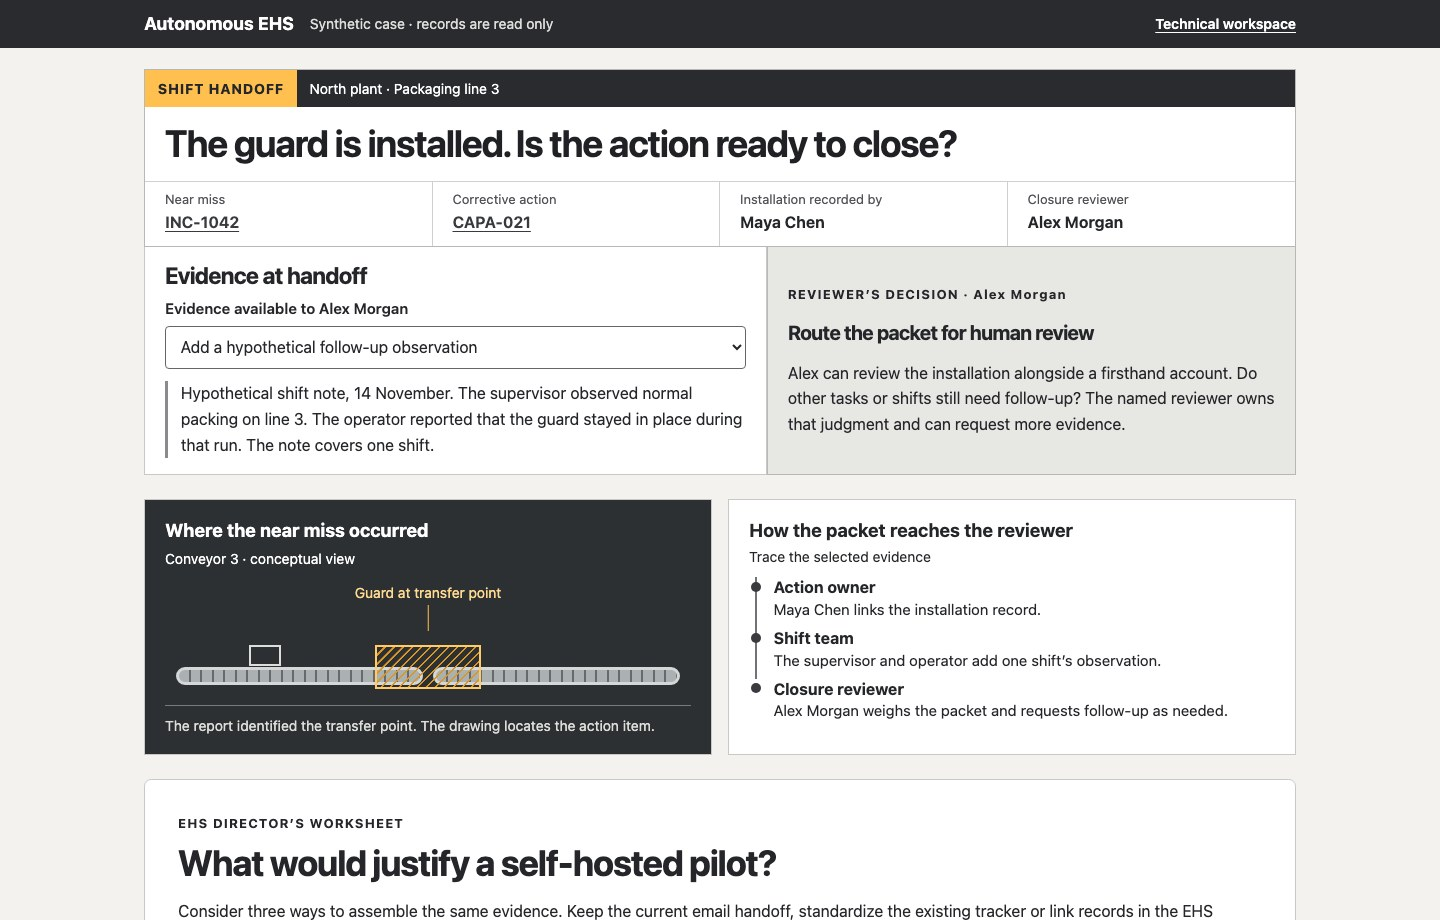
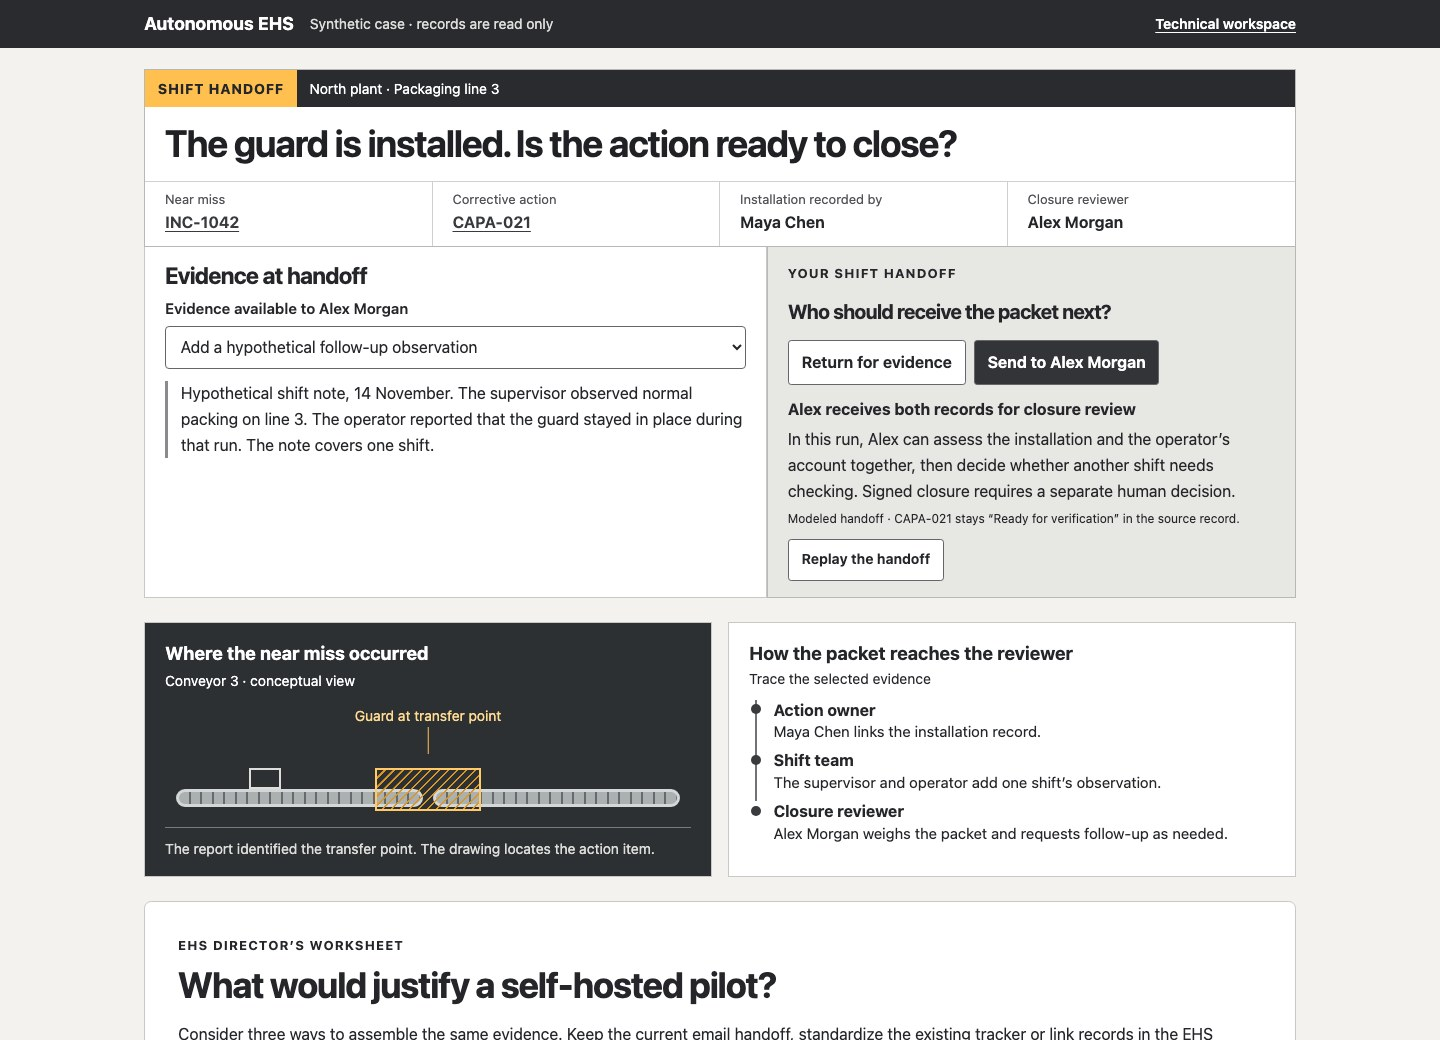
Audit learning and engagement by stakeholder and decision

Changed region(s): [[0.0, 0.0, 1.0, 0.8522], [0.125, 0.8826, 0.8438, 1.0]]

diff --git a/docs/audience-audit.md b/docs/audience-audit.md
@@ -1,0 +1,43 @@
+# Can visitors learn enough to make the next decision?
+
+**Audience walkthrough, November 22, 2026.** Each of the ten proposed redesigns gives its operating user a decision to try and its prospective sponsor a reason to compare alternatives. The most revealing moments occur when one fact changes and the easy answer stops working. Examples include a report for the wrong referral, a leave request that HR declines, and a matching liquidity ratio calculated from different dates.
+
+This assessment uses the rendered cases, project fixtures, desktop and mobile checks, and independent walkthroughs of the decision logic. No operators, customers or sponsors took part in a usability study. The findings below describe what the demos let people do and what to observe with participants. The [field guide](demo-field-guide.md) links the cases, screenshots and primary sources behind the audience choices.
+
+## Operational decisions
+
+| Case and audience | What the walkthrough established | Where to test engagement with people |
+| --- | --- | --- |
+| **Autonomous EHS Management** · shift supervisor, operator and assigned closer, with a plant manager deciding whether to expand | Send the installation packet alone and the case returns it to Maya. Add the one-shift observation and Alex can review it for closure. The plant manager can change site volume and see the tracker and console switch cost rank. | One positive observation makes a tidy example. Give a supervisor an observation from a different shift that contradicts it. Ask whom they would contact before closure. Ask the sponsor whether lower cost would change that evidence requirement. |
+| **Commerce Reliability Kit** · support, fulfillment and connector engineering, with an ecommerce operations sponsor | Closing a five-unit order after a three-unit handoff leaves two units without follow-up. With partial capture, the balance becomes unknown. Asking for confirmation gives fulfillment a specific assignment. At the example volume, saving 15 minutes per review yields $960 above cost. Saving ten leaves a $960 shortfall. | The visible verdict helps a novice finish. Give an experienced agent another partial order and ask them to write the customer reply before showing the verdict. Can they explain what to check without promising delivery? |
+| **Professional Service Automation** · project accountant and delivery manager, with a finance partner as sponsor | At 50% signed acceptance, issuing the existing $6,000 draft leaves $6,000 available to bill. Restarting with the same acceptance and voiding the draft leaves $12,000. The audit caught a reset that used to change acceptance at the same time. The revised case isolates the effect of the draft decision. | Ask the accountant to reconcile both amounts and identify the evidence of cash receipt they would still need. Ask the partner whether the measured time saving would cover the pilot if corrections had to be handled manually. |
+| **Financial Digital Twin** · Treasury and independent liquidity risk, with the CFO as sponsor | An observation of €92m in assets divided by €92m of projected outflows shows 100%. When the outflow schedule is a day older than the asset observation, documenting the ratio leaves an open evidence exception. A same-date schedule supports a documented boundary-case review. | Give Treasury and risk reviewers two unfamiliar dated schedules with identical ratios. Can they agree who owns the next task and which date matters? Ask the CFO which review work a cheaper checklist would already cover. |
+
+## Healthcare learning and exchange operations
+
+| Case and audience | What the walkthrough established | Where to test engagement with people |
+| --- | --- | --- |
+| **Asclepius** · referral coordinator and interface analyst, with an interoperability education lead as sponsor | Two reports can name the same patient and team. One matches the open referral. The other cites an earlier request. The learner can try both queue decisions and follow the references. At 24 learners and 15 minutes saved each, the worksheet recovers six hours of preparation. | Give the pair an unseen referral and ask them to point to the exact reference before marking it received. Repeat with another case a week later. The sponsor needs correct reasoning and retained learning as well as shorter training time. |
+| **Healthcare Data Exchange** · data steward reviewing an investigator’s request, with an exchange operations director as sponsor | The visitor predicts the response, runs the rule, then replays the patient's grant or withdrawal for the same request. The EU research case moves between zero and five fields. A grant alone still leaves the regional treatment request blocked. At the default workload, three minutes saved leaves a $3,600 shortfall and five produces $3,600 above cost. | Ask the steward which person can change consent and why the regional outcome differs. Ask the director what endpoint measurements would establish withdrawal timing in the real exchange. The browser event applies immediately. |
+
+## Engineering, assurance and change review
+
+| Case and audience | What the walkthrough established | Where to test engagement with people |
+| --- | --- | --- |
+| **CorpOS** · billing on-call engineer, with a platform engineering lead as sponsor | One eligible vote leaves the restart pending. A second distinct vote triggers a gateway recheck. Rejecting the request leaves the $49 refund settled. At the pilot defaults, four minutes saved per case leaves a $180 shortfall and five breaks even. | Give the engineer a request with no service telemetry. Ask what they would check before casting a vote. Can the platform lead name an operational stop condition as well as a cost threshold? |
+| **FidusGate** · incident investigator and gateway engineer, with a platform security lead as sponsor | The verifier accepts the signed denial and rejects a changed payload. Recording the finding, requesting the original packet and closing the ticket lead to different investigative dispositions. Even a valid signature leaves file execution and issuer trust to establish. | Give the investigator a different valid receipt and no execution log. Ask for one defensible sentence and the next evidence request. The sponsor should also ask how often receipts are missing when sampling starts from independent requests. |
+| **HR-ERP** · HR systems owner, people operations and QA | Both revisions show 72 hours after approval. With a declined request, deducting on submission still shows 72, whereas deducting on approval preserves the expected 80. A reviewer who tests only approval misses the defect. At the worksheet defaults, recovered capacity of $450 falls short of the $600 pilot. | Start QA at the passing approval case and ask them to find one additional test that could change sign-off. Ask people operations to explain the effect on the employee and the systems owner which cheaper check would catch it. |
+| **SOC-2** · platform control owner and compliance lead responding to a customer’s vendor-risk reviewer | A settings snapshot can answer a configuration question. Linked review and merge records can instead support a claim about one release or expose a post-merge approval. Asking for evidence creates a task. A missing return leaves the claim open. A clean sample supports only that sample. | Give the control owner two review timestamps and the merge time. Ask for the customer response about that release and then about the quarter. Have the compliance lead weigh retrieval effort and missing evidence together. |
+
+## APS and the supporting repositories
+
+| Repository | Audience check |
+| --- | --- |
+| **Agentic Process Safety** · reference case | The buyer can hold the order facts fixed and compare approval at 59 and 60 seconds. The resulting release or hold gives a site sponsor a concrete question about authority and production timing. Ask a new visitor which supplier or inventory fact still needs checking. |
+| **healthcare-policy** · release owner and exchange privacy lead | The mirror points to the canonical consent case. Ask a release owner to locate the bundle revision and a privacy lead to explain what timestamped endpoint observations would establish withdrawal latency. A source revision cannot answer both questions. |
+| **corporate-site-harness** · release engineering lead | The archived walkthrough asks whether a passing record for one digest can authorize a changed artifact. Ask a reviewer to identify the replacement evidence and the person who can approve. The worked example in the field guide lets a sponsor compare staff time without reopening the archive. |
+| **SafetyMP profile** · prospective collaborators and technical evaluators | A visitor can choose a decision by role, see an opening screen, and distinguish a hosted case from a local app. Give a visitor a goal such as investigating an incomplete shipment. Observe whether they reach the right case and recognize the difference between its demo and technical guide without assistance. |
+
+## How to run the participant check
+
+Start with one operator and one prospective sponsor for a case. Give each a realistic task from the final column, without naming the control to use. Record the visitor’s initial prediction, the record they inspect, the action taken, their explanation of the consequence and any help they need. Then change one fact and ask them to repeat the decision. For the sponsor, change a cost or workload assumption and ask what evidence would reverse the funding recommendation. Observe whether visitors explore another path voluntarily. Completing the task, enjoying it and explaining it correctly are distinct observations. [GOV.UK guidance on moderated usability testing](https://www.gov.uk/service-manual/user-research/using-moderated-usability-testing)

diff --git a/docs/demo-field-guide.md b/docs/demo-field-guide.md
@@ -2,7 +2,7 @@
 
 In the APS bearings case, a buyer has to release an order in time for assembly. Change the age of the approval and the decision changes. The same question is worth asking elsewhere in the portfolio. **Which fact would change what you do next, and what would it cost to establish that fact routinely?** [Try the APS case](https://safetymp.github.io/Agentic-Process-Safety/#/study)
 
-The cases use fictional records. Choose the row closest to your work. The middle column identifies the people handling the day-to-day decision. The proposed sponsor in the last column would decide whether to fund or expand the trial. Titles will vary by organization. The screen previews below show the proposed redesigns. The demo links open each project’s published version.
+The cases use fictional records. Choose the row closest to your work. The middle column identifies the people handling the day-to-day decision. The proposed sponsor in the last column would decide whether to fund or expand the trial. Titles will vary by organization. The screen previews below show the proposed redesigns. The demo links open each project’s published version. The [audience audit](audience-audit.md) records which decisions reviewers tried, what changed, and which questions need a session with real operators.
 
 ## Operations and finance
 
